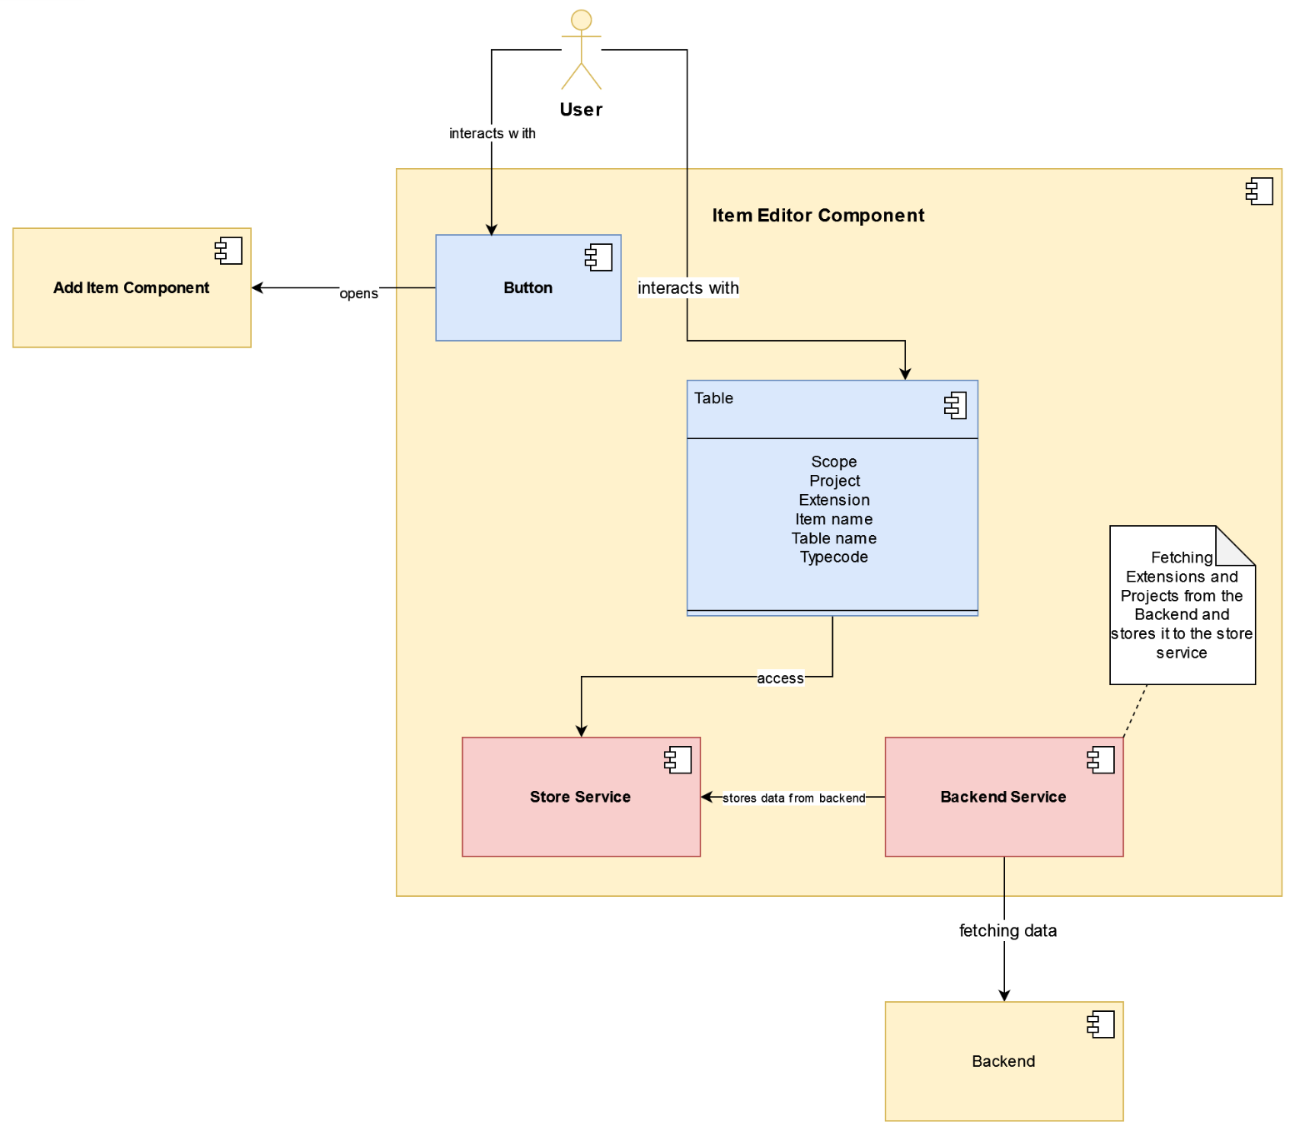
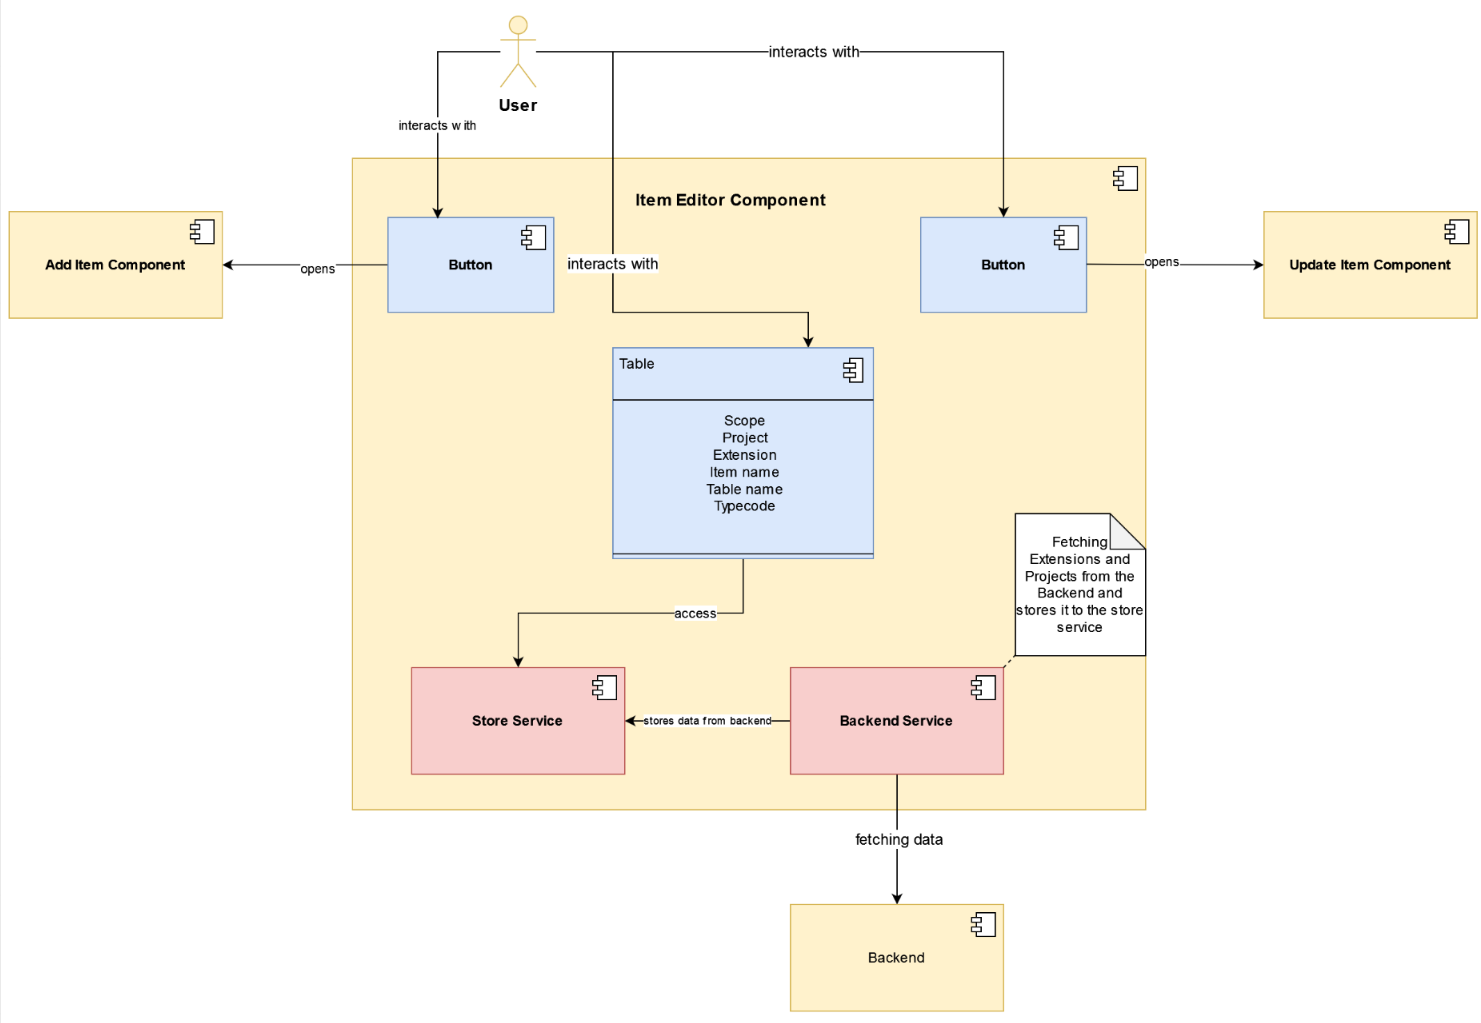
doc: TRN-43/47 #5  added architecture for update item component

diff --git a/doc/SAS-Typecode_Registry/sections/block_view.tex b/doc/SAS-Typecode_Registry/sections/block_view.tex
@@ -626,6 +626,43 @@ Input validation is enforced by the \texttt{FormGroup}'s built-in validators and
 The 'Create' button remains inactive as long as any form control remains invalid or unfilled.
 The component is structured to prevent form submission if any validation errors persist, ensuring data integrity and user adherence to input requirements.
 
+\headingFive{Update Item Component}
+
+The Update Item Component exemplifies the dynamic and interactive nature of the application's frontend, enabling users to modify existing item details with precision.
+It features robust integration with backend services for data retrieval, employs sophisticated user input validation mechanisms, and maintains data integrity throughout the update process.
+
+Figure~\ref{fig:updateitem_component} illustrates the architectural overview of the \texttt{UpdateItemComponent}, delineating its form structure, backend integration for data population, dynamic content adaptation based on user selections, and the validation procedures essential for its operation.
+
+\begin{figure}[H]
+    \centering
+    \includegraphics[width=\textwidth]{./images/frontend/update-item-component}
+    \caption{Architecture and interaction flow within the UpdateItemComponent.}
+    \label{fig:updateitem_component}
+\end{figure}
+
+\headingSix{Form Structure and User Interaction}
+The Update Item Component is developed using Angular's reactive forms, facilitating seamless user interactions through a series of input controls tailored for modifying item attributes.
+Validators are meticulously configured to ensure the accuracy and compliance of user-submitted data with established business rules.
+Upon initiating the update process, the modified data is dispatched to the backend for processing or emitted to parent components as dictated by the application's data flow architecture.
+
+\headingSix{Service Integration}
+Leveraging the \texttt{BackendService}, the component dynamically retrieves and populates existing item details into the form controls, providing users with contextual information for making informed modifications.
+This integration ensures coherence and consistency between the frontend and backend systems.
+Additionally, the \texttt{StoreService} is employed to manage the application's state, facilitating real-time updates and maintaining synchronization across various components.
+
+\headingSix{User Input Validation and Error Handling}
+The Update Item Component implements robust validation strategies to verify the accuracy and completeness of user inputs before initiating the update operation.
+The following key fields constitute the modification form:
+
+\begin{itemize}
+    \item \textbf{Item Name}: An essential field for updating the name of the item.
+    Input validation prompts an error message if the field is left empty or contains invalid characters.
+    \item \textbf{Table Name}: A mandatory field specifying the table name for storing updated item data in SAP. Similar to the item name, user input validation is enforced to ensure data integrity.
+\end{itemize}
+
+Validation procedures, including built-in \texttt{FormGroup} validators are employed to verify user selections against available data retrieved from the \texttt{StoreService}.
+The 'Update' button remains inactive until all form controls are valid and accurately filled, ensuring adherence to input requirements and safeguarding data consistency during the modification process.
+
 \headingFive{Backend Service}
 The \texttt{BackendService} acts as the intermediary between the frontend and backend, facilitating data exchange and API calls.
 It encapsulates the logic for HTTP requests, error handling, and data transformation, ensuring a seamless communication channel between the Angular application and the Golang backend.
